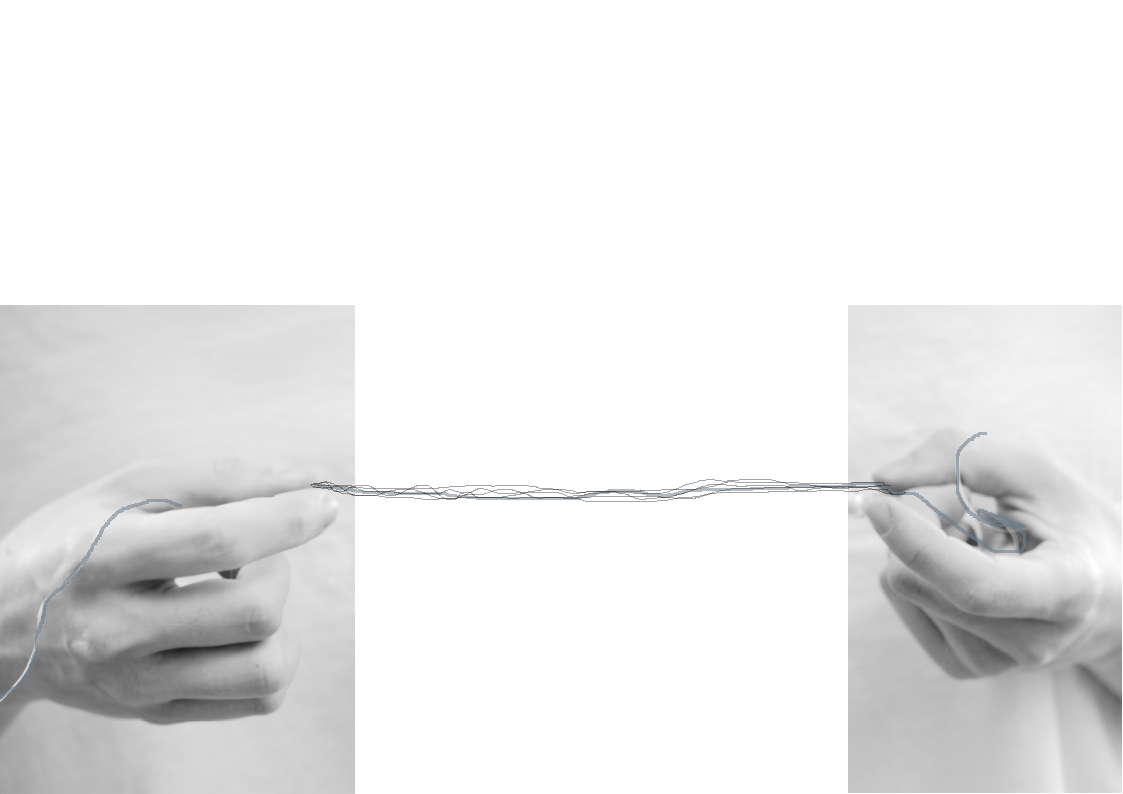
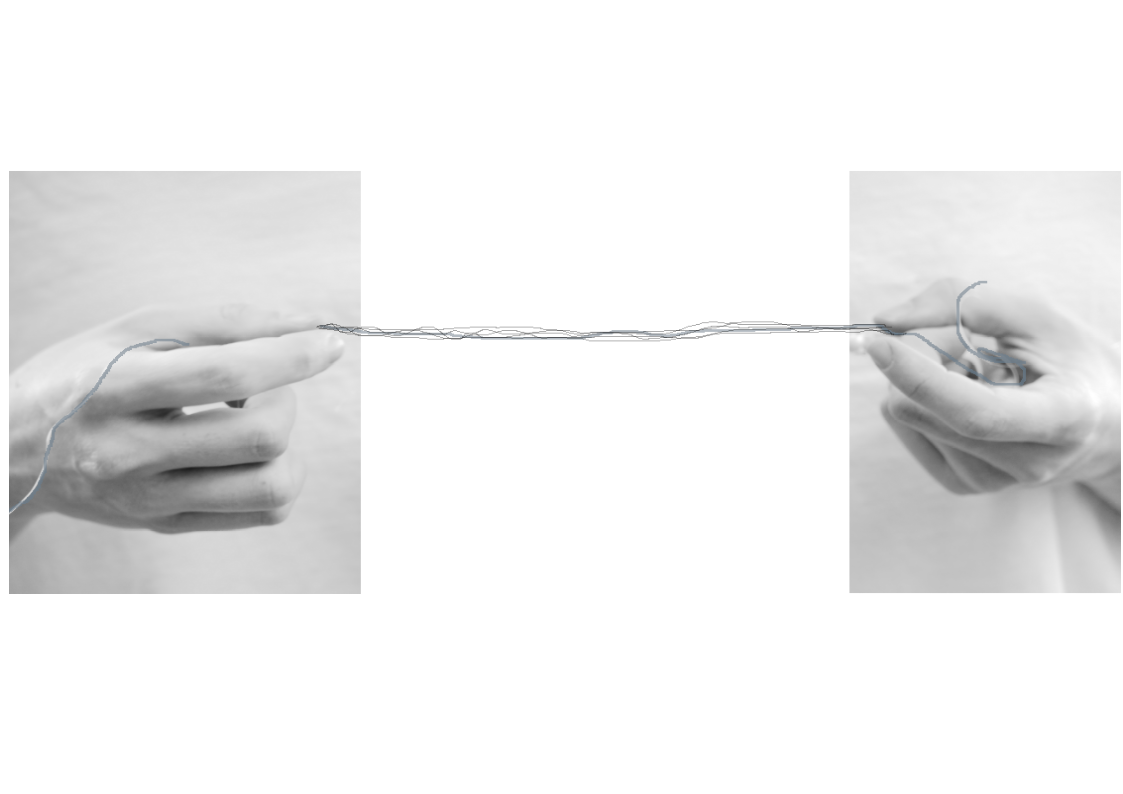
En amont des murs,

diff --git a/themes/flexion/static/css/style.css b/themes/flexion/static/css/style.css
@@ -75,12 +75,19 @@ h1:hover a.anchor, h2:hover a.anchor, h3:hover a.anchor, h4:hover a.anchor, h5:h
 
 
 .Haut {
+  background-position: bottom -180px right 750px;
+  background-repeat: no-repeat;
+  background-image: url("https://paume.page/images/paume_page.png") ;
   height: adjust;
-  border: 1px solid black;
+  border: 4px solid transparent;
+  padding: 15px;
+  border-image: url("https://paume.page/images/ligne.png") 30 round;
 }
 
 .Centre {
-  border: 1px solid cadetblue;
+  border: 5px solid transparent;
+  padding: 15px;
+  border-image: url("https://paume.page/images/ligne.png") 30 round;
   margin-right: 20%;
   margin-left: 20%;
   overflow: auto;
@@ -88,7 +95,9 @@ h1:hover a.anchor, h2:hover a.anchor, h3:hover a.anchor, h4:hover a.anchor, h5:h
 }
 
 .Gauche {
-  border: 1px solid rgb(204, 55, 130);
+  border: 3px solid transparent;
+  padding: 15px;
+  border-image: url("https://paume.page/images/ligne.png") 30 round;
   left: 10px ;
   max-width: 20%;
   height: 500px;
@@ -99,7 +108,9 @@ h1:hover a.anchor, h2:hover a.anchor, h3:hover a.anchor, h4:hover a.anchor, h5:h
 
 .Bas {
   height: 100px;
-  border: 1px solid cadetblue;
+  border: 3px solid transparent;
+  padding: 15px;
+  border-image: url("https://paume.page/images/ligne.png") 30 round;
   bottom: 0;
 }
 
@@ -111,7 +122,9 @@ h1:hover a.anchor, h2:hover a.anchor, h3:hover a.anchor, h4:hover a.anchor, h5:h
   text-align: center;
   height: 10%;
   background-color: white;
-  border: 1px solid cadetblue;
+  border: 1px solid transparent;
+  padding: 5px;
+  border-image: url("https://paume.page/images/ligne.png") 30 round;
   bottom: 5%;
   width: 100%;
 }
@@ -142,7 +155,9 @@ a {
 /* Style pour les carrés */
 .square {
   background-color: white;
-  border: 1px solid rgba(236, 203, 221, 0.575);
+  border: 5px solid transparent;
+  padding: 5px;
+  border-image: url("https://paume.page/images/ligne.png") 30 round;
   padding: 10px;
   margin-bottom: 10px;
   display: inline-block; /* Ajout de la propriété pour aligner horizontalement */

diff --git a/themes/flexion/layouts/partials/header.html b/themes/flexion/layouts/partials/header.html
@@ -1,5 +1,5 @@
 <section class="Haut">
     <h1>{{ .Site.Title }}</h1>
-    <h2>{{ .Site.Params.Subtitle }}</h2>
+    <h2 style="font-size: 17px;">{{ .Site.Params.Subtitle }}</h2>
     <p class="licence">cc by-sa 4.0 {{ now.Format "2006"}} Margot Mellet</p>
   </section>
